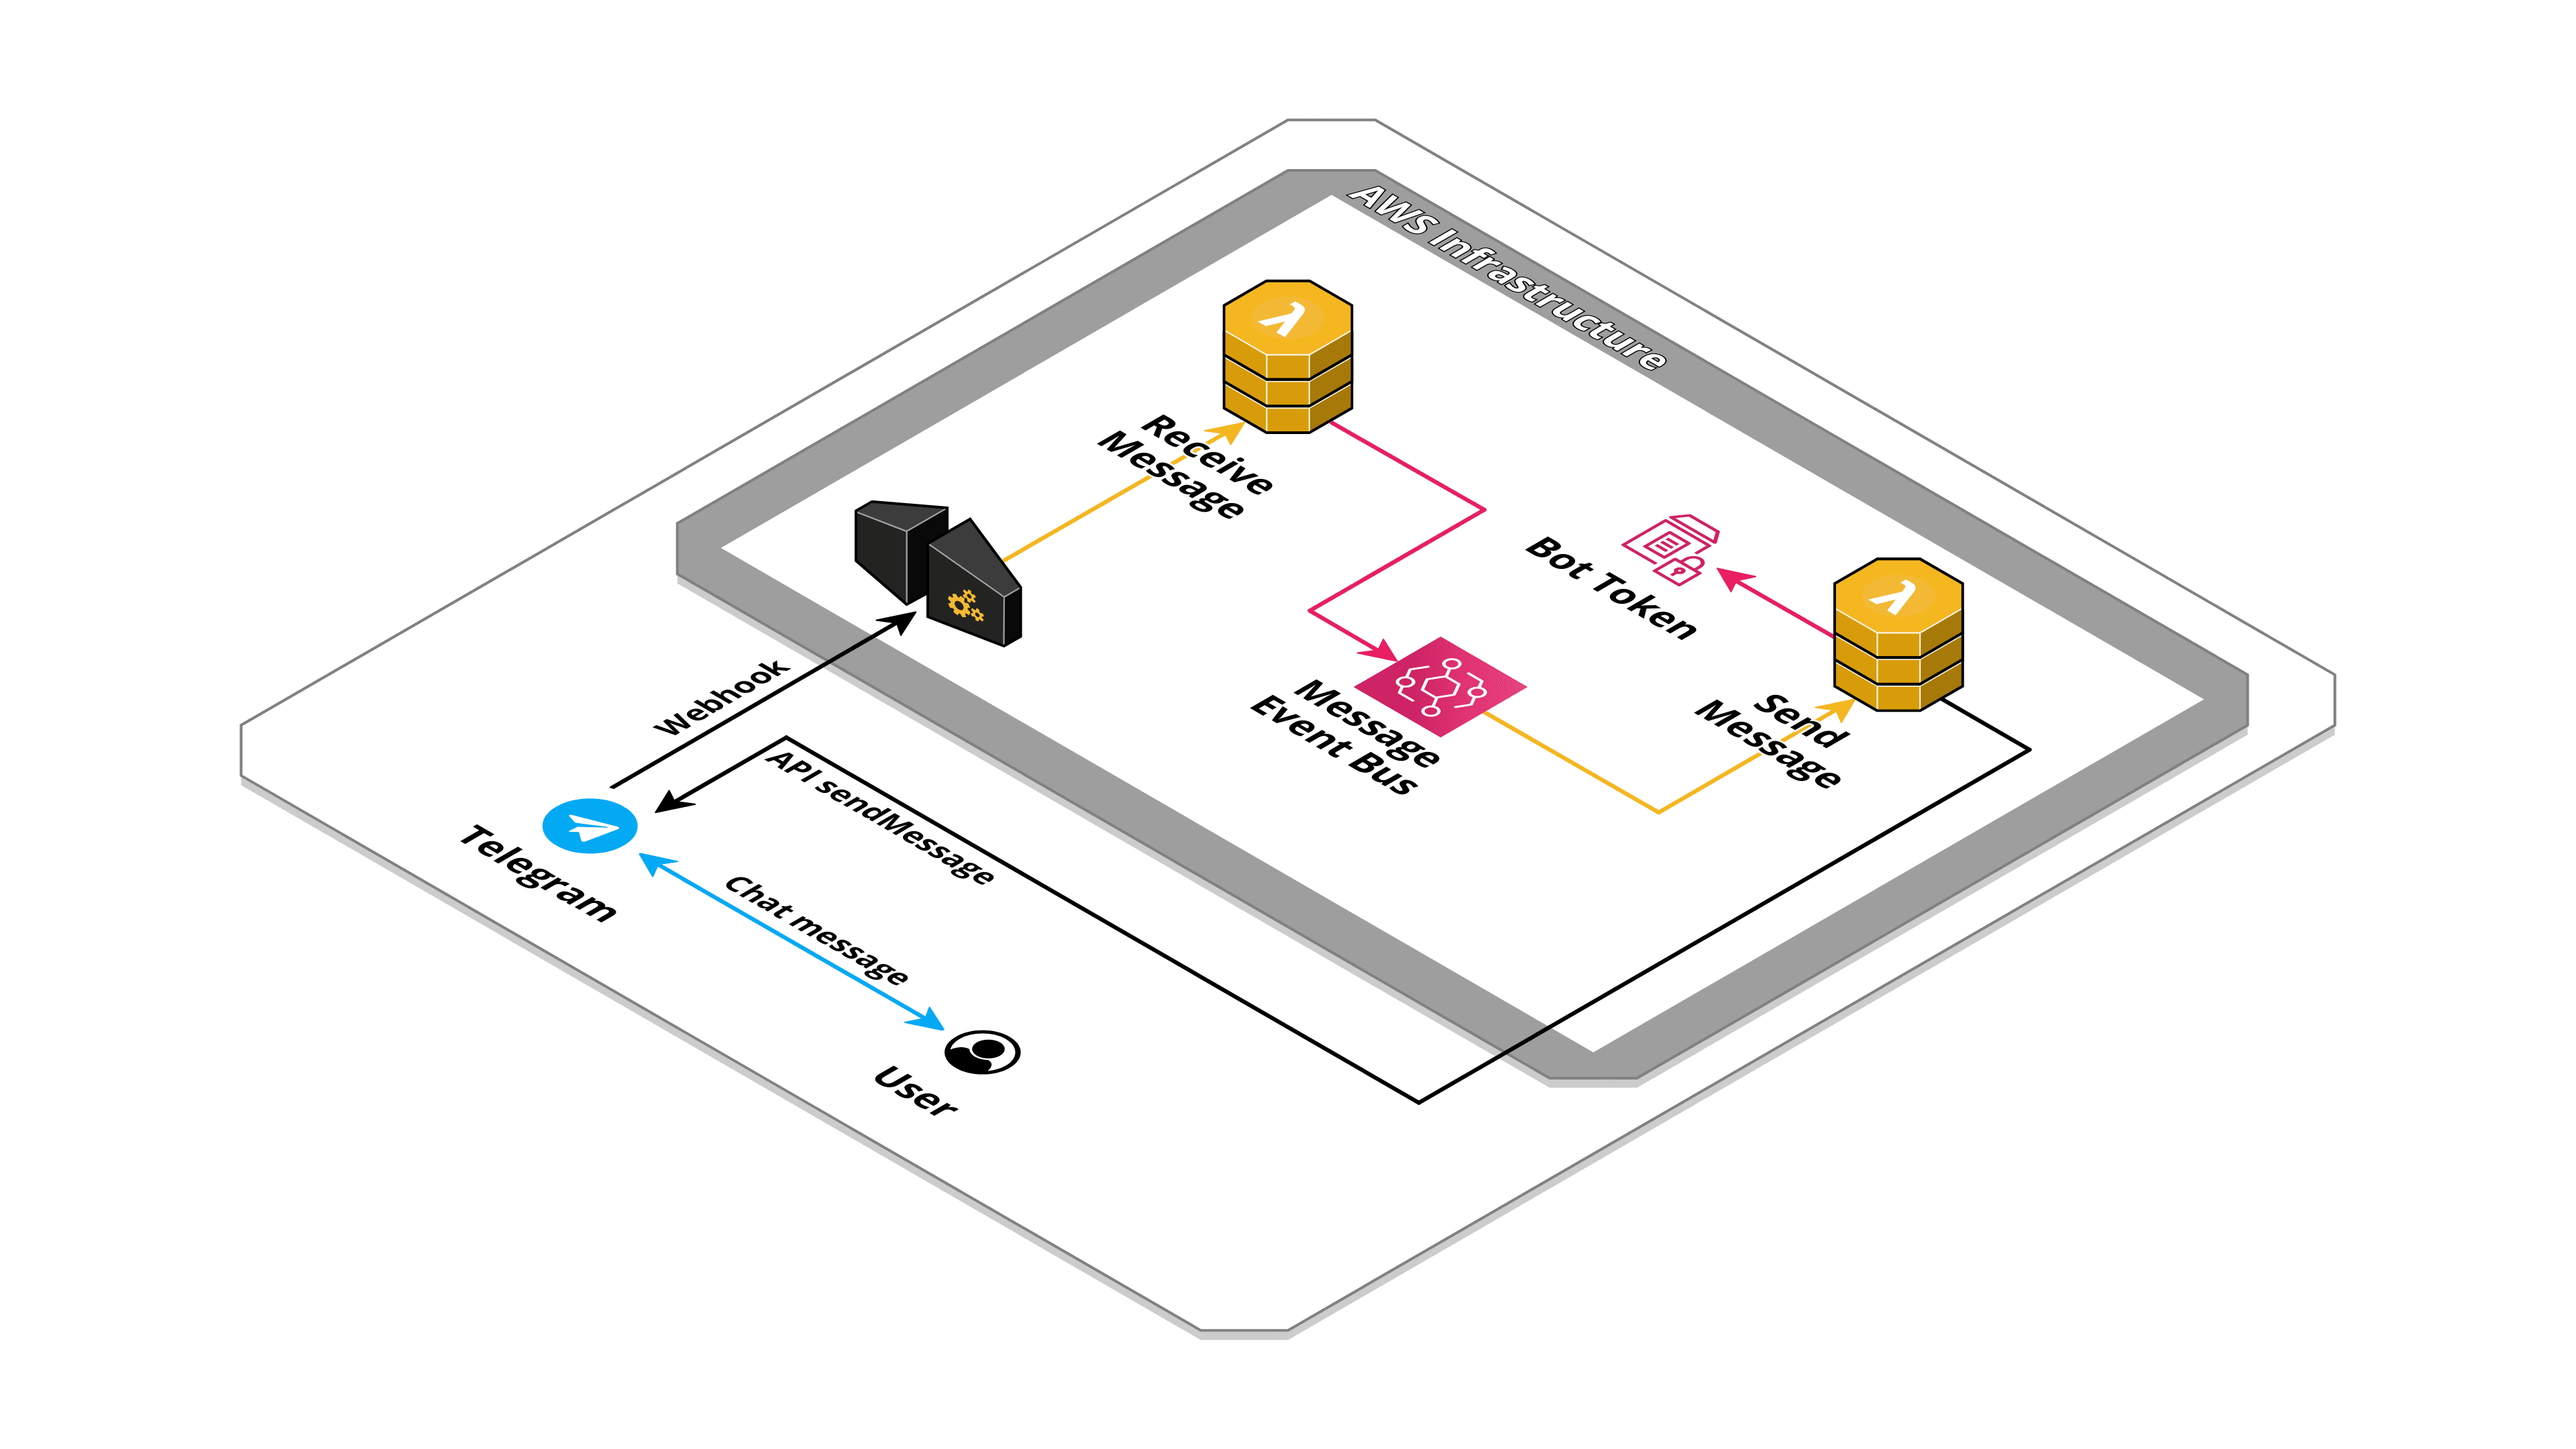
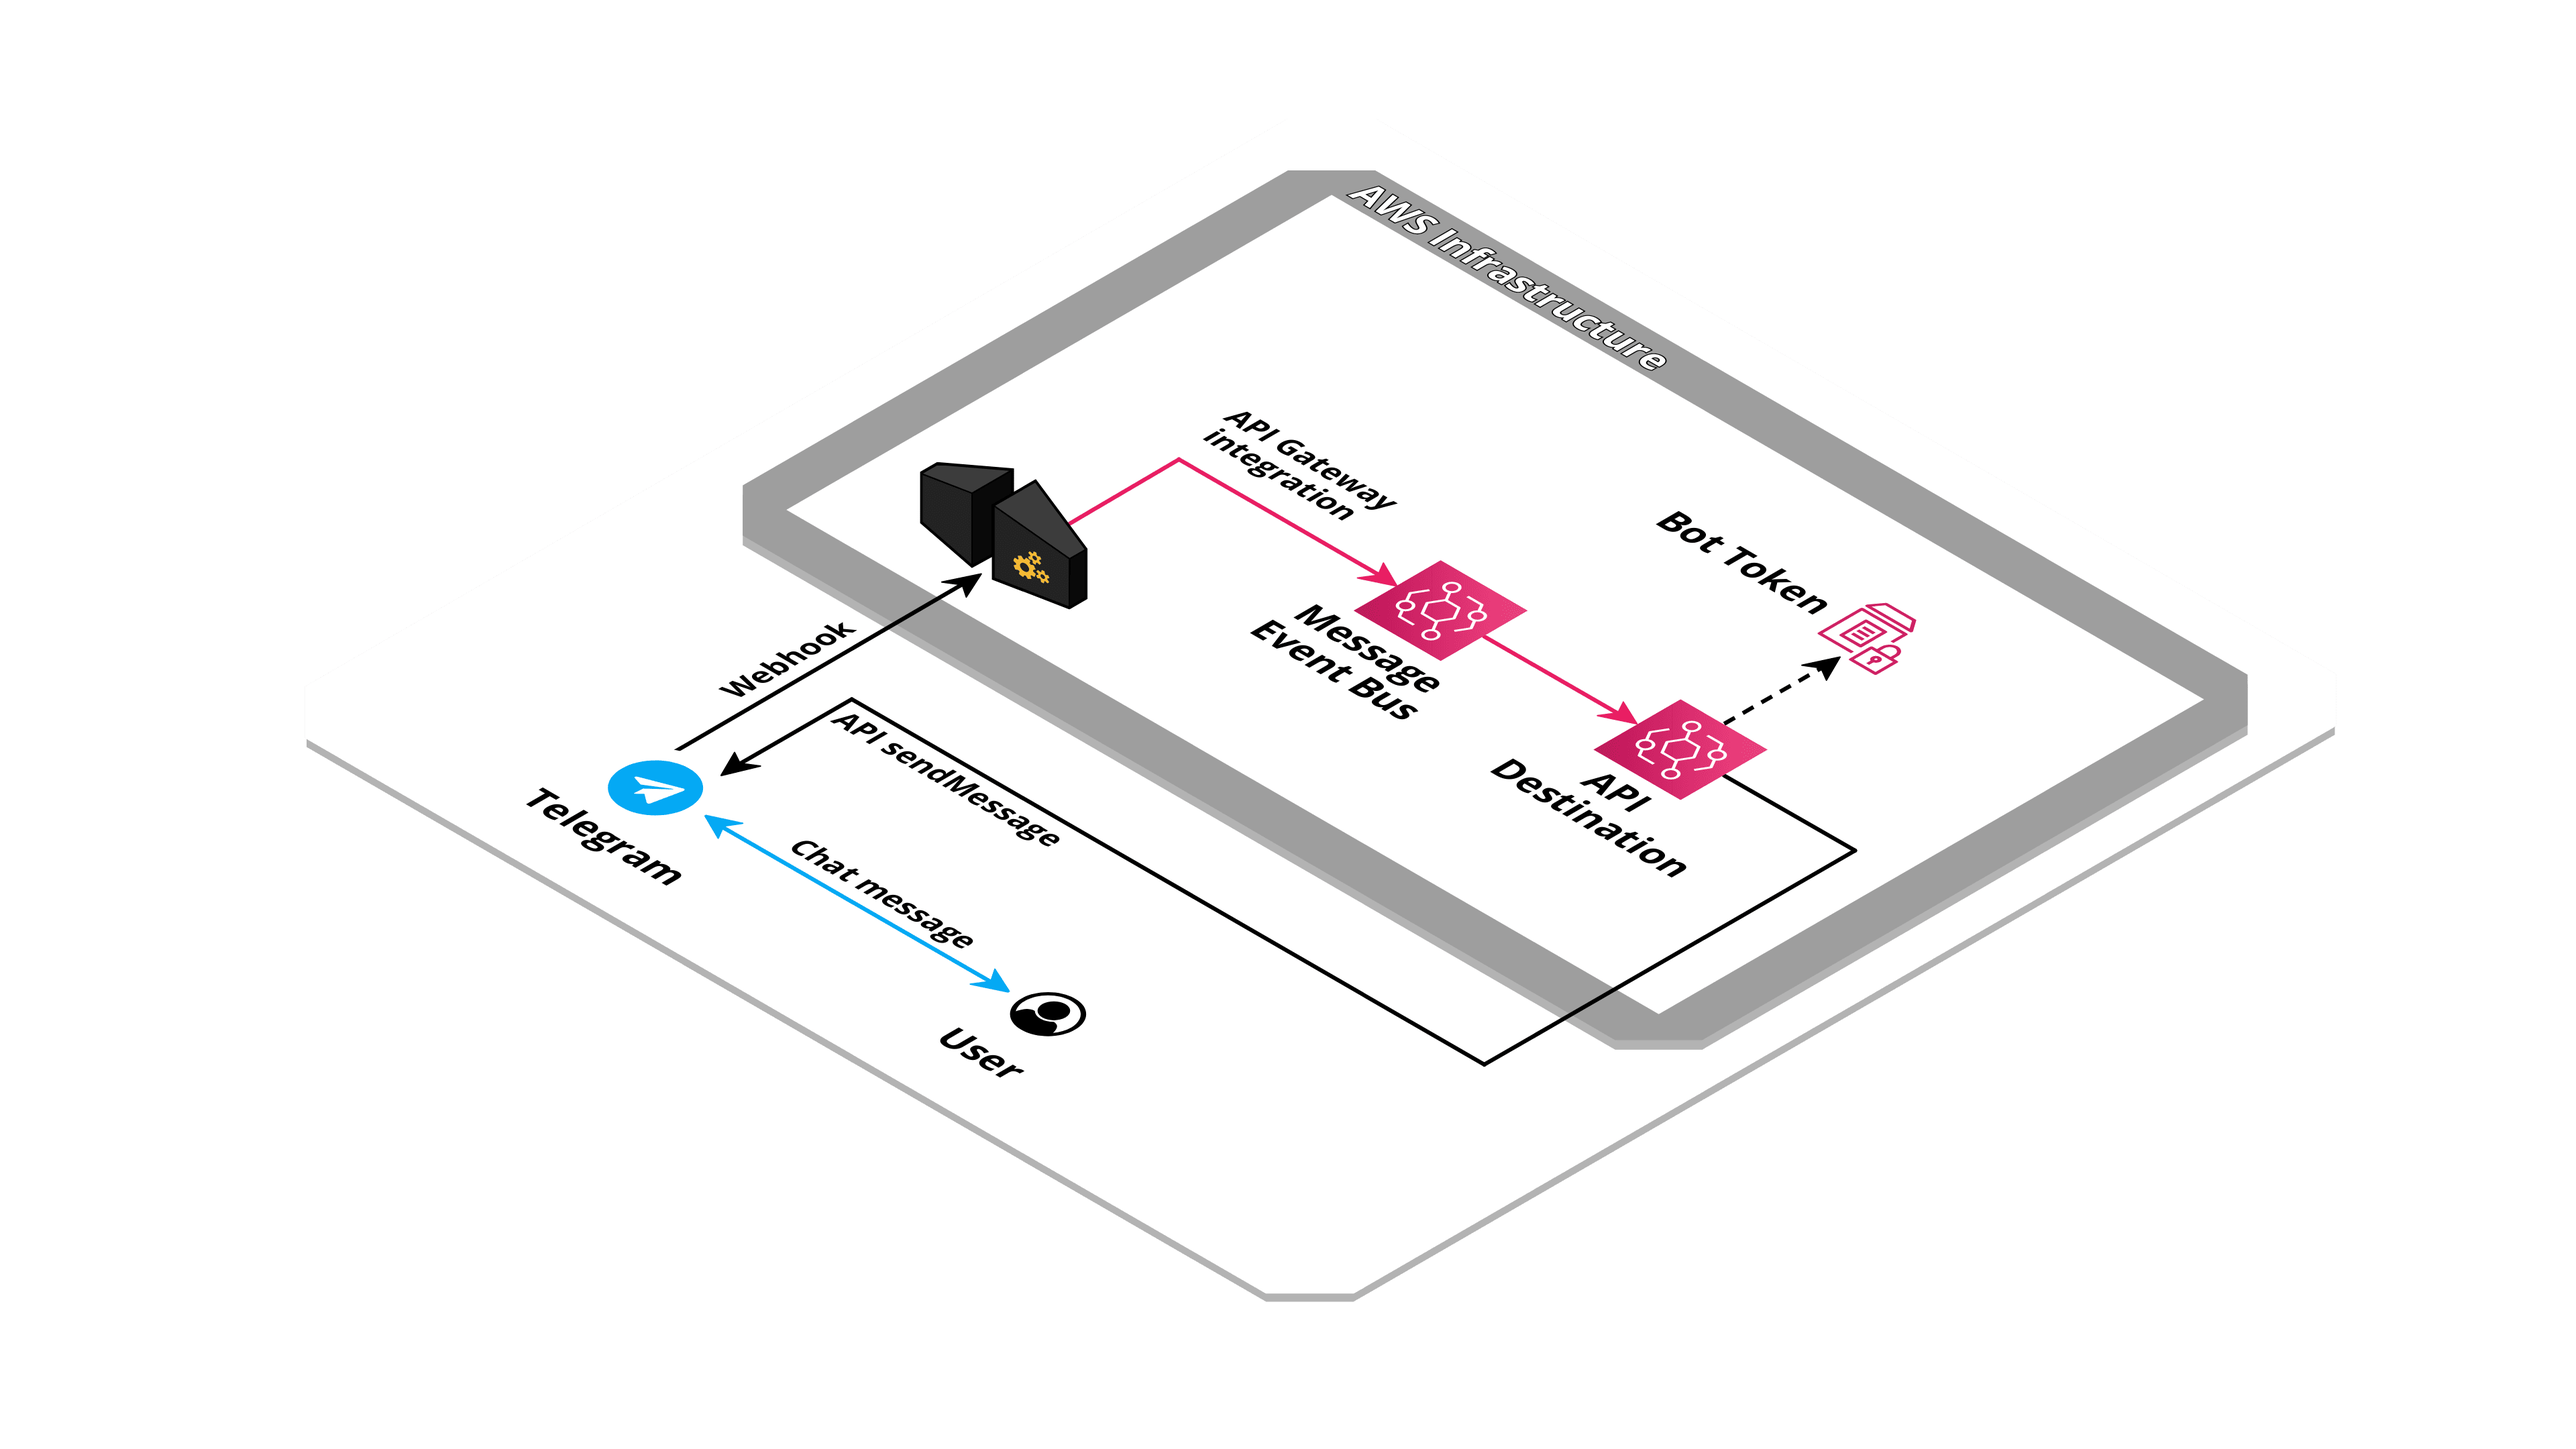
Update doc

diff --git a/README.md b/README.md
@@ -2,14 +2,13 @@
 
 ![CloudFormation](https://img.shields.io/badge/-CloudFormation-%23FF4F8B)
 ![API Gateway](https://img.shields.io/badge/-API%20Gateway-%23A166FF)
-![Lambda](https://img.shields.io/badge/-Lambda-%23FF9900)
 ![EventBridge](https://img.shields.io/badge/-EventBridge-%23FF4F8B)
 
 This is a serverless application that implements a Telegram bot connector for message receive and send.
 
 ## Created resources
 
-This application create an API Gateway endpoint to listen for webhook request, an Event Bridge bus to send received message and listen for message command.
+This application create an API Gateway endpoint to listen for webhook request, an Event Bridge bus to send received messages.
 
 ![Infrastructure Schema](./doc/schema.png)
 
@@ -26,8 +25,6 @@ sam deploy --guided
 - **TelegramBotToken**: Telegram bot token.
 
 - **TelegramIPsWhitelist**: Comma separate list of IPs of permitted senders IP, leave empty to disable whitelist.
-
-- **TelegramUsernamesWhitelist**: Comma separate list of usernames of permitted senders commands message, leave empty to disable whitelist.
 
 ## Outputs
 
